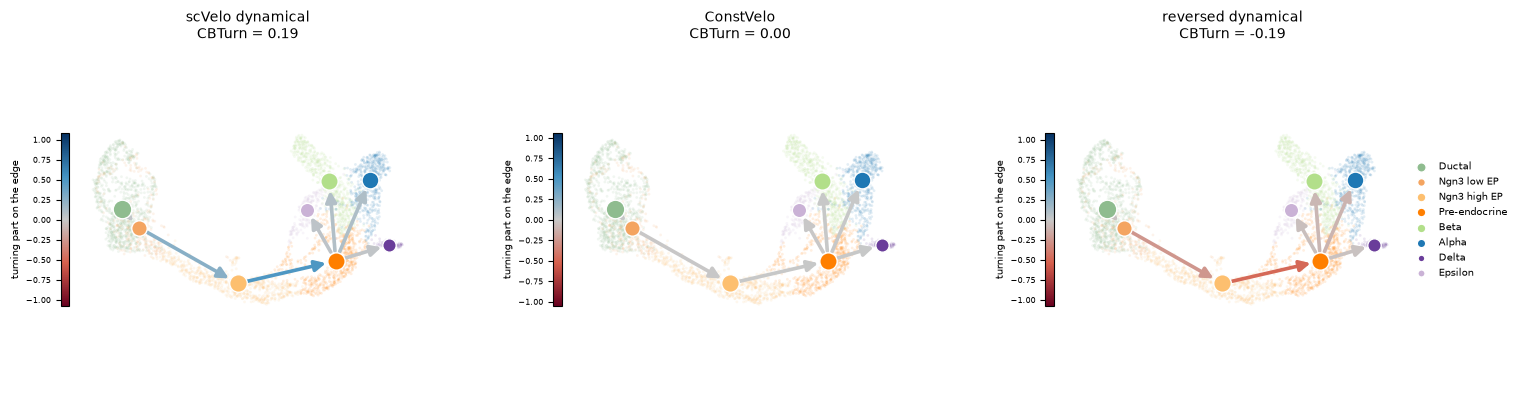
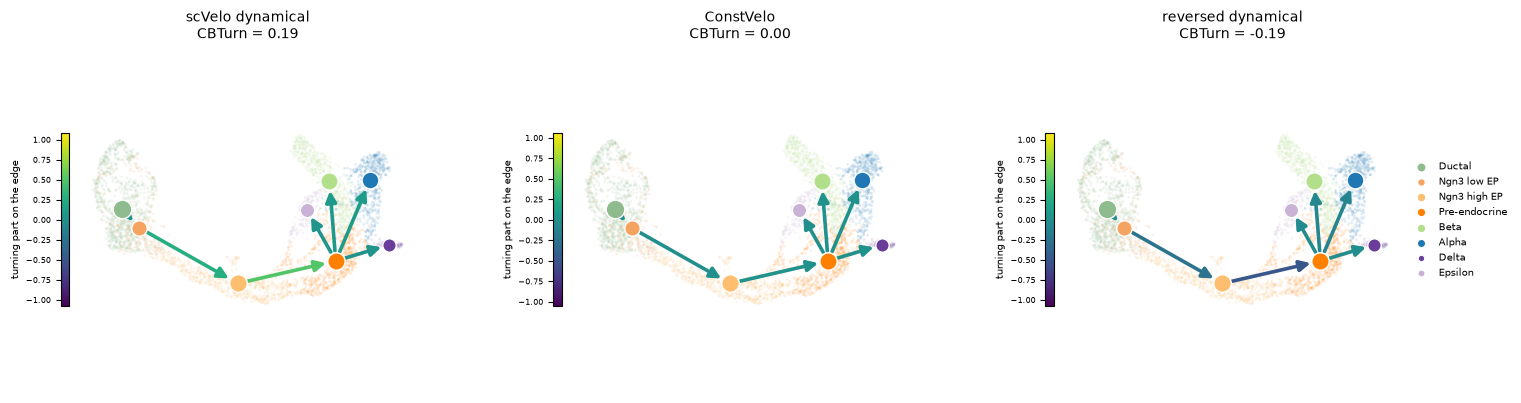
Colour the CBTurn topology plot with viridis

diff --git a/veloeval/pl.py b/veloeval/pl.py
@@ -140,11 +140,11 @@ def cbturn(
     Each cell type is a node at the median of its cells in ``obsm['X_{basis}']``,
     sized by its number of cells, and each of *cluster_edges* an arrow from
     source to target, as in scVelo's PAGA plot.  The arrow's colour is the
-    edge's turning part (see :func:`cbturn_parts`): blue where the velocity on
-    the edge turns with it, red where against it, grey where nothing on the
-    edge sets it apart from the others.  The embedding only places the
-    nodes: the scores are computed in gene or latent space, and an arrow's
-    angle in the plot says nothing about the velocity.
+    edge's turning part (see :func:`cbturn_parts`) on viridis: yellow where the
+    velocity on the edge turns with it, purple where against it, the green
+    middle where nothing on the edge sets it apart from the others.  The
+    embedding only places the nodes: the scores are computed in gene or latent
+    space, and an arrow's angle in the plot says nothing about the velocity.
 
     Parameters
     ----------
@@ -174,7 +174,8 @@ def cbturn(
         ve.pl.cbturn(adata, ref, label_key="clusters", cluster_edges=edges)
     """
     import matplotlib.pyplot as plt
-    from matplotlib.colors import LinearSegmentedColormap, Normalize
+    from matplotlib import colormaps
+    from matplotlib.colors import Normalize
     from matplotlib.patches import FancyArrowPatch
 
     names, U, cells, D = _edge_turning(
@@ -187,9 +188,7 @@ def cbturn(
     if vmax is None:
         Dc = D - D.mean(axis=0)
         vmax = float((Dc * Dc).sum(axis=1).max())
-    cmap = LinearSegmentedColormap.from_list(
-        "turn", ["#67001f", "#d6604d", "#c8c8c8", "#4393c3", "#053061"]
-    )
+    cmap = colormaps["viridis"]
     norm = Normalize(-vmax, vmax)
 
     if ax is None:

diff --git a/tests/test_metrics.py b/tests/test_metrics.py
@@ -1905,8 +1905,9 @@ def test_pl_cbturn_draws_what_cbturn_scores(rng):
     const = a.copy()
     const.layers["velocity"] = np.tile(V[0], (a.n_obs, 1))
     ax = ve.pl.cbturn(const, **TURN)
-    grey = [p.get_facecolor() for p in ax.patches if isinstance(p, FancyArrowPatch)]
-    assert np.allclose(grey[0], grey[1]) and np.ptp(grey[0][:3]) < 0.01
+    middle = matplotlib.colormaps["viridis"](0.5)
+    for arrow in [p for p in ax.patches if isinstance(p, FancyArrowPatch)]:
+        assert np.allclose(arrow.get_facecolor(), middle)
     plt.close("all")
 
     ax = ve.pl.cbturn_parts(a, **TURN)

diff --git a/docs/api/pl.md b/docs/api/pl.md
@@ -51,8 +51,9 @@ ve.pl.cbturn_parts(adata, ref, label_key="clusters", cluster_edges=edges)
 
 `cbturn` puts the same turning parts on the differentiation topology, as in
 scVelo's PAGA plot: each cell type a node at the median of its cells in the
-UMAP, each edge an arrow from source to target, blue where the velocity turns
-with the edge, red where against it, grey where nothing sets the edge apart.
+UMAP, each edge an arrow from source to target, coloured on viridis: yellow
+where the velocity turns with the edge, purple where against it, the green
+middle where nothing sets the edge apart.
 Full colour is the most an edge could reach, so colours compare across
 methods. The UMAP only places the nodes; the scores are computed in gene space.
 
